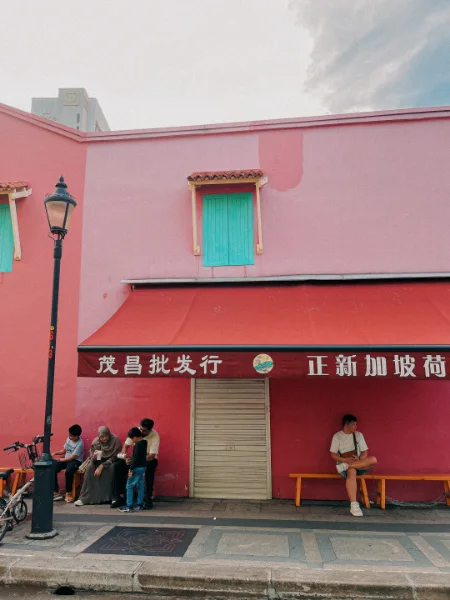
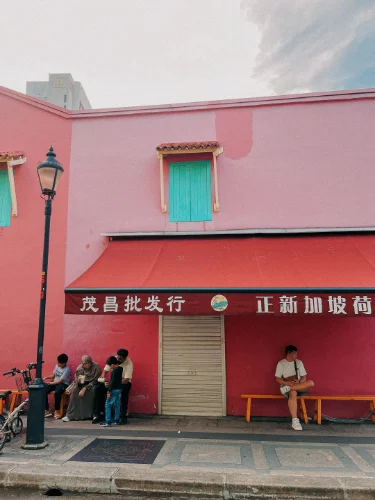
about: the 16 new photographs, 36 in total
Raj sent a list of 34 links on 2026-08-12. Sixteen were not on About;
those are added. The instruction was "every image here that's not on our
about needs to be added" -- add, not replace -- so the twenty already
there stay.

Two currently on About are absent from that list and were kept: the
hero (raj on the red telephone) and the Petronas towers. Flagged to him
rather than removed on a guess, because dropping the hero is not
something "add these" asks for.

Re-encoded the whole set at 500px rather than the previous 600. With 36
tiles each renders around 100-140 CSS px, so 600 was paying for pixels
nobody sees. The hero keeps its 1400px encode -- it is the only tile
that renders large.

  20 images  1.62 MB          (previous)
  36 images  2.02 MB          (now)
  24 images  2.05 MB          (before any of this)

So the page carries 12 more photographs than it originally did and is
still marginally lighter. Still fits the viewport at 1440 and 1366 with
6px to spare.

New order interleaves the new frames through the old rather than
appending them, so the bottom band isn't sixteen consecutive new
pictures. --ar on each is its true decoded ratio; one of the new ones is
0.800, the rest 0.750.

About's 14/16 spacing-tier flag is unchanged by this -- it predates it.

diff --git a/about.html b/about.html
@@ -150,15 +150,18 @@
     <!-- One dominant photograph, then twenty-five that actively recede.
          Uniform emphasis is the same as no emphasis, so the hero keeps the
          depth, the radius and the hover, and every other tile gives them up. -->
-    <!-- One dominant photograph, then nineteen that actively recede.
+    <!-- One dominant photograph, then thirty-five that actively recede.
          Uniform emphasis is the same as no emphasis, so the hero keeps the
          depth, the radius and the hover, and every other tile gives them up.
 
-         These are Raj's 20 supplied frames (2026-08-11). They arrived as raw
+         These are Raj's supplied frames -- 20 on 2026-08-11, 16 more on
+         2026-08-12. They arrived as raw
          camera JPGs on Bunny totalling ~150MB -- one of them 11.9MB -- and
          that pull zone has no image optimizer, so ?width= returns the
          original bytes. They are re-encoded to webp at 1000px and served
-         locally, which is what About already did: 2.85MB for the set.
+         locally, which is what About already did. The tiles are encoded at
+         500px: with 36 of them each renders around 100-140 CSS px, so
+         anything larger is paying for pixels nobody sees.
          --ar is each file's true ratio, not a guess: about.js justifies every
          row off that value and only falls back to naturalWidth once the
          images have loaded, so a wrong one breaks the first paint. -->
@@ -169,59 +172,107 @@
       <figure class="tile" style="--ar:0.75">
         <img src="/shots/02-shopfront.webp" alt="a pink shopfront and a red shutter" loading="lazy" decoding="async">
       </figure>
-      <figure class="tile" style="--ar:0.75">
-        <img src="/shots/03-trees.webp" alt="trees and open sky" loading="lazy" decoding="async">
+      <figure class="tile" style="--ar:0.8">
+        <img src="/shots/03-camera.webp" alt="raj with a camera" loading="lazy" decoding="async">
       </figure>
       <figure class="tile" style="--ar:0.75">
-        <img src="/shots/04-bar.webp" alt="a bar packed to the ceiling" loading="lazy" decoding="async">
+        <img src="/shots/04-trees.webp" alt="trees and open sky" loading="lazy" decoding="async">
+      </figure>
+      <figure class="tile" style="--ar:0.75">
+        <img src="/shots/05-hills.webp" alt="hills going under the mist" loading="lazy" decoding="async">
+      </figure>
+      <figure class="tile" style="--ar:0.75">
+        <img src="/shots/06-bar.webp" alt="a bar packed to the ceiling" loading="lazy" decoding="async">
+      </figure>
+      <figure class="tile" style="--ar:0.75">
+        <img src="/shots/07-crt.webp" alt="a CRT television in the corner" loading="lazy" decoding="async">
       </figure>
       <figure class="tile" style="--ar:0.667">
-        <img src="/shots/05-shoreline.webp" alt="a figure on the shoreline" loading="lazy" decoding="async">
+        <img src="/shots/08-shoreline.webp" alt="a figure on the shoreline" loading="lazy" decoding="async">
       </figure>
       <figure class="tile" style="--ar:0.75">
-        <img src="/shots/06-pinboard.webp" alt="a cat asleep under the pinboard" loading="lazy" decoding="async">
+        <img src="/shots/09-waterfall.webp" alt="a waterfall, and someone standing under it" loading="lazy" decoding="async">
       </figure>
       <figure class="tile" style="--ar:0.75">
-        <img src="/shots/07-lanterns.webp" alt="lanterns strung over a night market" loading="lazy" decoding="async">
+        <img src="/shots/10-pinboard.webp" alt="a cat asleep under the pinboard" loading="lazy" decoding="async">
       </figure>
       <figure class="tile" style="--ar:0.75">
-        <img src="/shots/08-drawing.webp" alt="a tree, drawn on grid paper" loading="lazy" decoding="async">
+        <img src="/shots/11-catwall.webp" alt="a cat asleep against a painted wall" loading="lazy" decoding="async">
       </figure>
       <figure class="tile" style="--ar:0.75">
-        <img src="/shots/09-mural.webp" alt="a motorbike parked against a mural" loading="lazy" decoding="async">
+        <img src="/shots/12-lanterns.webp" alt="lanterns strung over a night market" loading="lazy" decoding="async">
       </figure>
       <figure class="tile" style="--ar:0.75">
-        <img src="/shots/10-nursery.webp" alt="a nursery under glass" loading="lazy" decoding="async">
+        <img src="/shots/13-rooftop.webp" alt="a rooftop, and the town below" loading="lazy" decoding="async">
       </figure>
       <figure class="tile" style="--ar:0.75">
-        <img src="/shots/11-hoperich.webp" alt="a doorway sign reading hope you rich" loading="lazy" decoding="async">
+        <img src="/shots/14-drawing.webp" alt="a tree, drawn on grid paper" loading="lazy" decoding="async">
       </figure>
       <figure class="tile" style="--ar:0.75">
-        <img src="/shots/12-walkway.webp" alt="a covered walkway, mid-afternoon" loading="lazy" decoding="async">
+        <img src="/shots/15-baby.webp" alt="a long time ago" loading="lazy" decoding="async">
       </figure>
       <figure class="tile" style="--ar:0.75">
-        <img src="/shots/13-redphone.webp" alt="a lamp, a cassette deck and a red phone" loading="lazy" decoding="async">
+        <img src="/shots/16-mural.webp" alt="a motorbike parked against a mural" loading="lazy" decoding="async">
       </figure>
       <figure class="tile" style="--ar:0.75">
-        <img src="/shots/14-street.webp" alt="a street of murals and outdoor tables" loading="lazy" decoding="async">
+        <img src="/shots/17-doorway.webp" alt="a doorway covered in names" loading="lazy" decoding="async">
       </figure>
       <figure class="tile" style="--ar:0.75">
-        <img src="/shots/15-cyanotype.webp" alt="a cyanotype pinned above the desk" loading="lazy" decoding="async">
+        <img src="/shots/18-nursery.webp" alt="a nursery under glass" loading="lazy" decoding="async">
+      </figure>
+      <figure class="tile" style="--ar:0.75">
+        <img src="/shots/19-elephant.webp" alt="a black cat on a stone elephant" loading="lazy" decoding="async">
+      </figure>
+      <figure class="tile" style="--ar:0.75">
+        <img src="/shots/20-hoperich.webp" alt="a doorway sign reading hope you rich" loading="lazy" decoding="async">
+      </figure>
+      <figure class="tile" style="--ar:0.75">
+        <img src="/shots/21-townlights.webp" alt="town lights, and someone watching them" loading="lazy" decoding="async">
+      </figure>
+      <figure class="tile" style="--ar:0.75">
+        <img src="/shots/22-walkway.webp" alt="a covered walkway, mid-afternoon" loading="lazy" decoding="async">
+      </figure>
+      <figure class="tile" style="--ar:0.75">
+        <img src="/shots/23-field.webp" alt="a field, wide open" loading="lazy" decoding="async">
+      </figure>
+      <figure class="tile" style="--ar:0.75">
+        <img src="/shots/24-redphone.webp" alt="a lamp, a cassette deck and a red phone" loading="lazy" decoding="async">
+      </figure>
+      <figure class="tile" style="--ar:0.75">
+        <img src="/shots/25-desk.webp" alt="the desk, and a cat on the shelf" loading="lazy" decoding="async">
+      </figure>
+      <figure class="tile" style="--ar:0.75">
+        <img src="/shots/26-street.webp" alt="a street of murals and outdoor tables" loading="lazy" decoding="async">
+      </figure>
+      <figure class="tile" style="--ar:0.75">
+        <img src="/shots/27-riverbikes.webp" alt="motorbikes down by the water" loading="lazy" decoding="async">
+      </figure>
+      <figure class="tile" style="--ar:0.75">
+        <img src="/shots/28-cyanotype.webp" alt="a cyanotype pinned above the desk" loading="lazy" decoding="async">
+      </figure>
+      <figure class="tile" style="--ar:0.75">
+        <img src="/shots/29-bridge.webp" alt="raj on a bridge above the mist" loading="lazy" decoding="async">
       </figure>
       <figure class="tile" style="--ar:0.563">
-        <img src="/shots/16-towers.webp" alt="petronas Towers, Kuala Lumpur" loading="lazy" decoding="async">
+        <img src="/shots/30-towers.webp" alt="petronas Towers, Kuala Lumpur" loading="lazy" decoding="async">
       </figure>
       <figure class="tile" style="--ar:0.75">
-        <img src="/shots/17-rain.webp" alt="shophouses in the rain" loading="lazy" decoding="async">
+        <img src="/shots/31-mirror.webp" alt="a wing mirror and a wide river" loading="lazy" decoding="async">
       </figure>
       <figure class="tile" style="--ar:0.75">
-        <img src="/shots/18-vintage.webp" alt="a vintage shop, open front" loading="lazy" decoding="async">
+        <img src="/shots/32-rain.webp" alt="shophouses in the rain" loading="lazy" decoding="async">
       </figure>
       <figure class="tile" style="--ar:0.75">
-        <img src="/shots/19-lamp.webp" alt="a dim room and one warm lamp" loading="lazy" decoding="async">
+        <img src="/shots/33-cornershop.webp" alt="a corner shop under red lanterns" loading="lazy" decoding="async">
+      </figure>
+      <figure class="tile" style="--ar:0.75">
+        <img src="/shots/34-vintage.webp" alt="a vintage shop, open front" loading="lazy" decoding="async">
+      </figure>
+      <figure class="tile" style="--ar:0.75">
+        <img src="/shots/35-lamp.webp" alt="a dim room and one warm lamp" loading="lazy" decoding="async">
       </figure>
       <figure class="tile" style="--ar:0.667">
-        <img src="/shots/20-nightout.webp" alt="a night out" loading="lazy" decoding="async">
+        <img src="/shots/36-nightout.webp" alt="a night out" loading="lazy" decoding="async">
       </figure>
     </div><!-- /.shots -->
 
